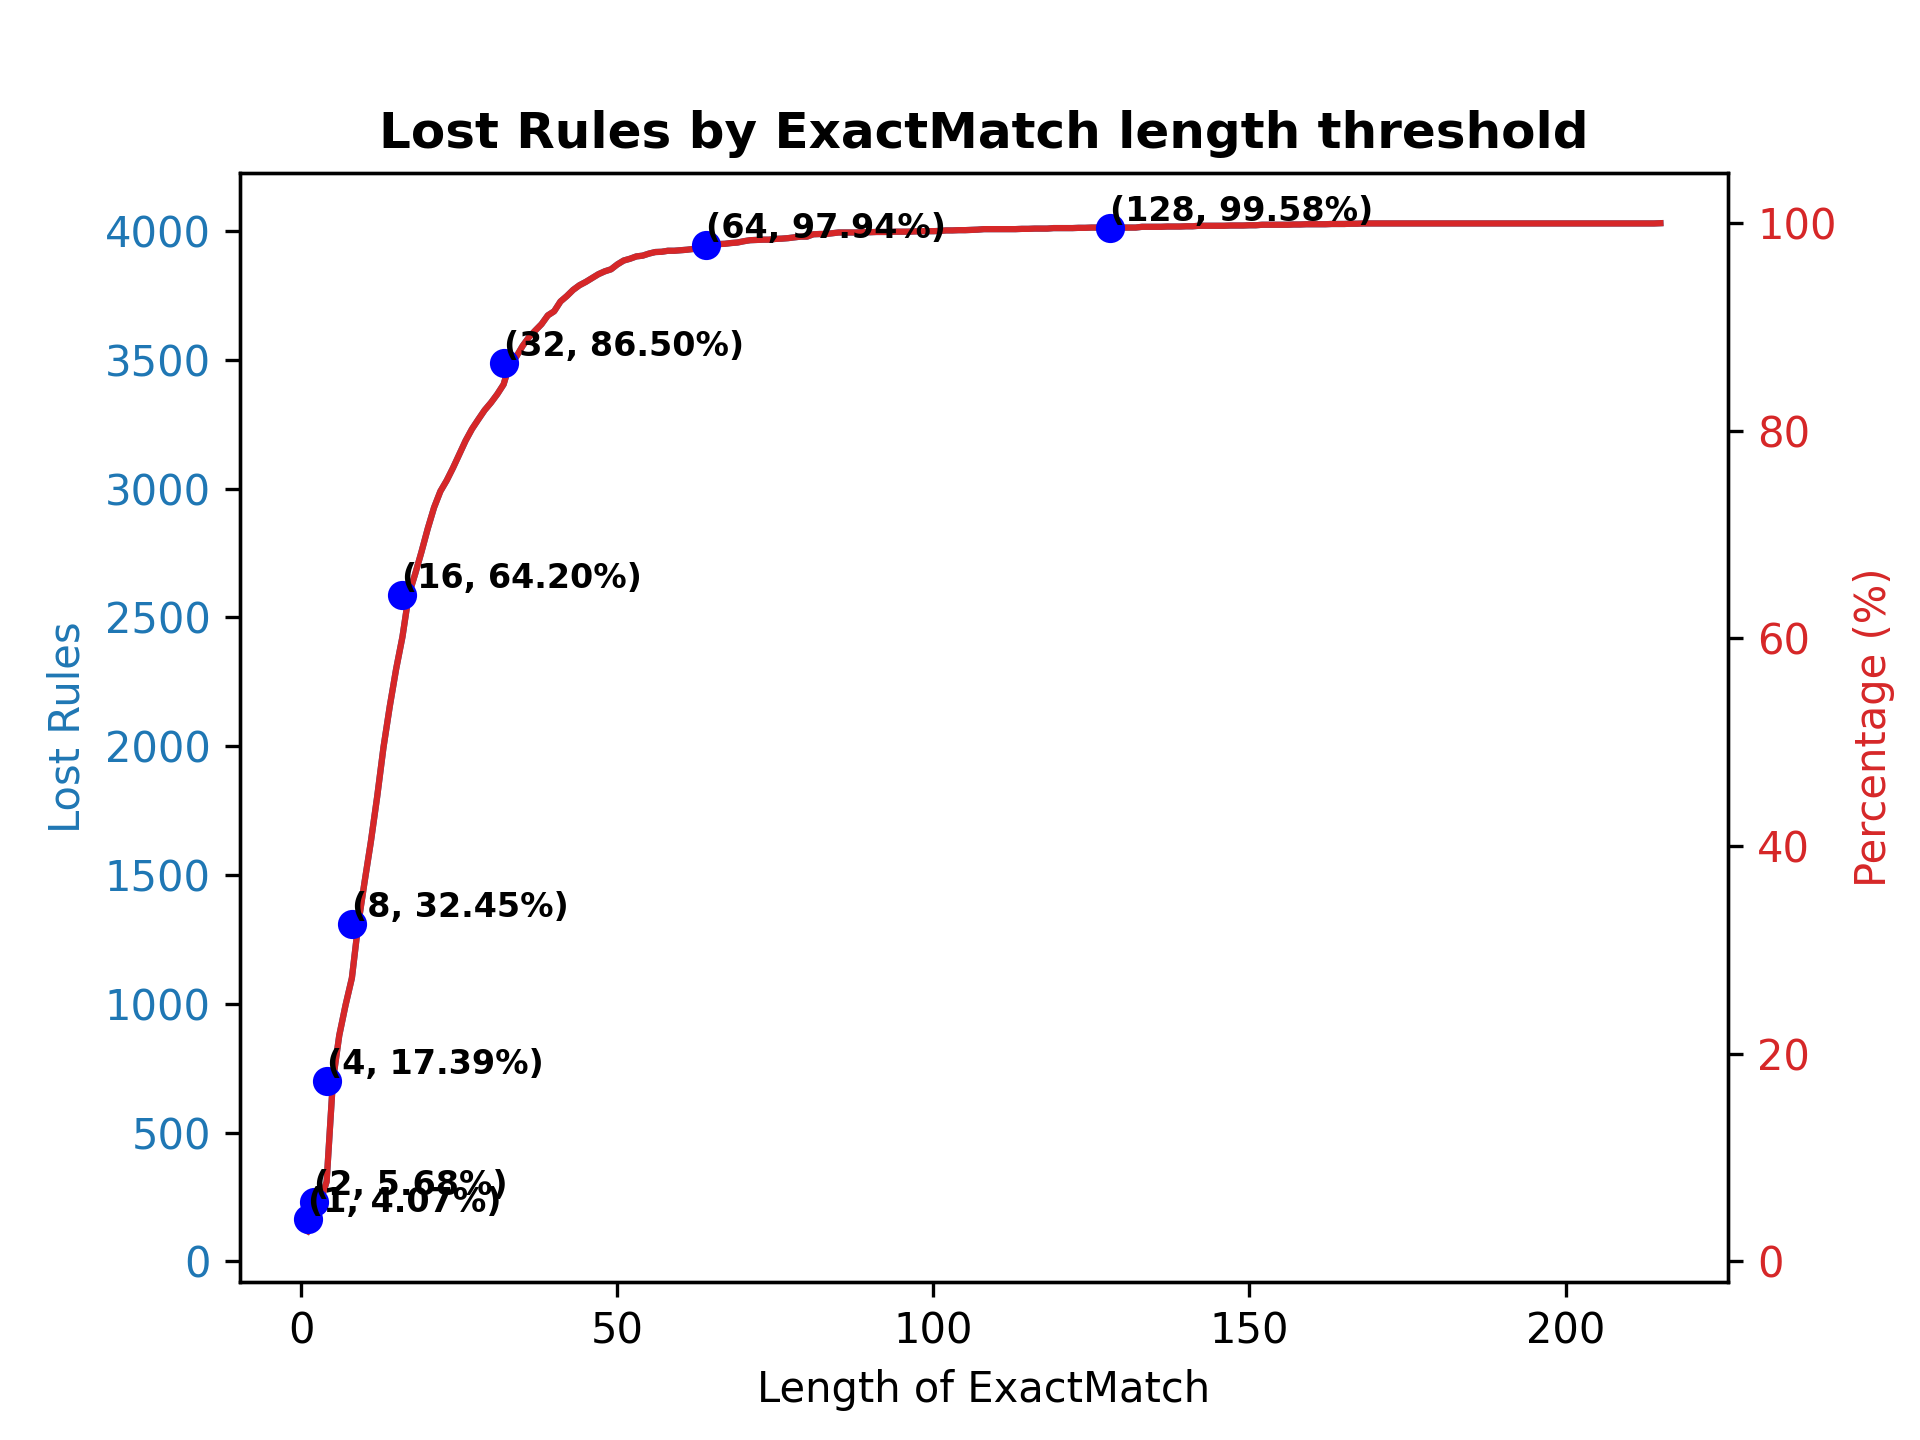
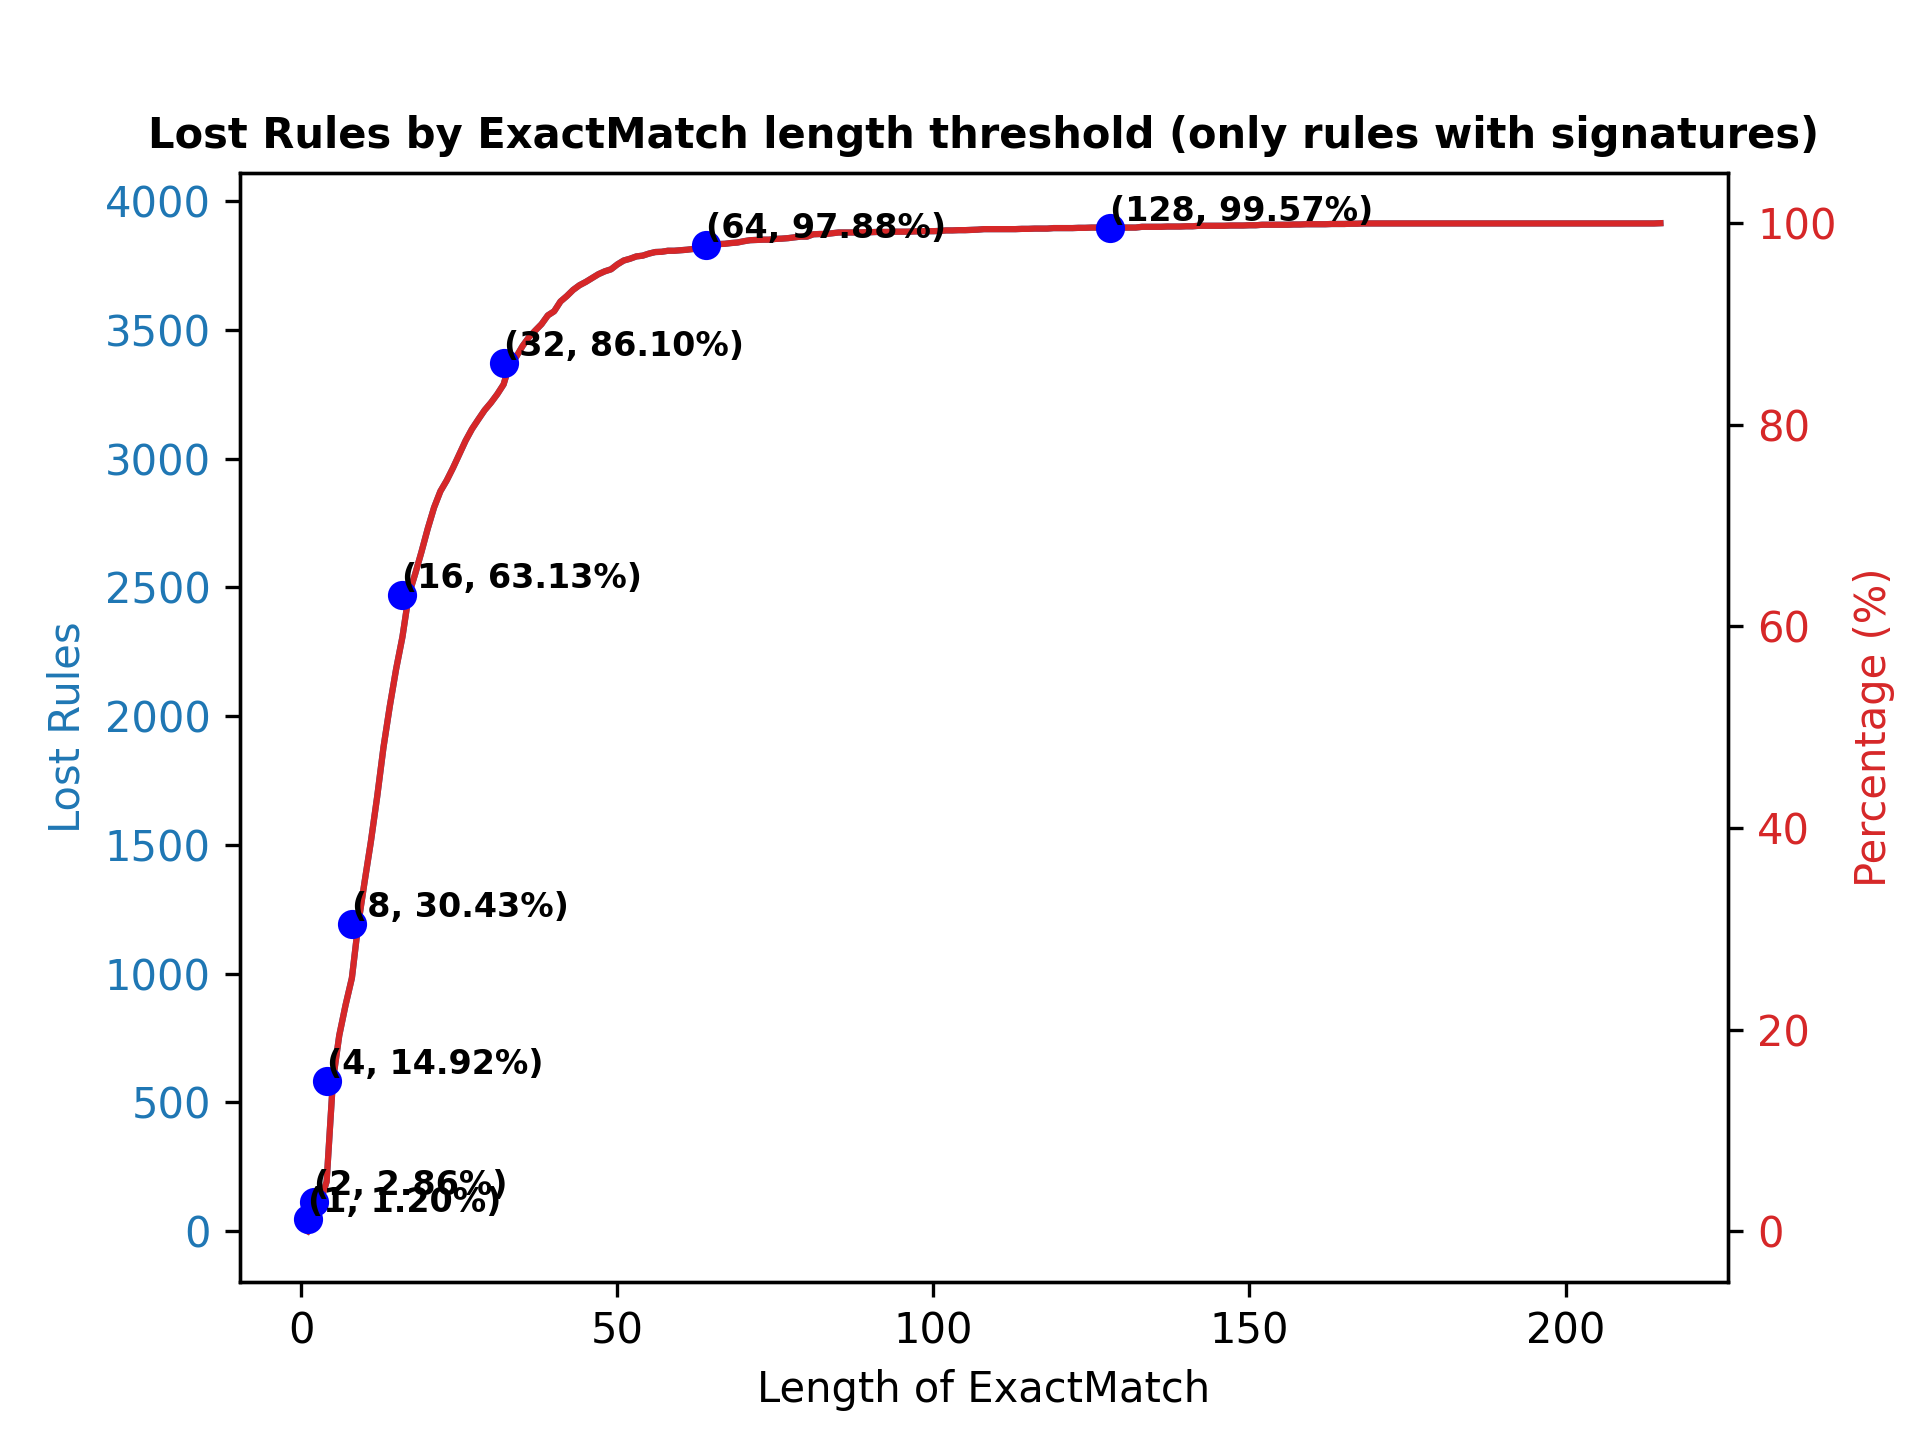
Update plot_lost_rules_by_exactmatch_length function to fix calculation bug

diff --git a/PartA_Data_Process/ResultsAnalysis.py b/PartA_Data_Process/ResultsAnalysis.py
@@ -27,7 +27,7 @@ def plot_lost_rules_by_exactmatch_length(data_by_exactmatch, abs_save_path):
     """
         A function used to plot the cumulated lost rules by the exactmatch length.
     """
-    lost_rules_by_length = [1 for i in range(1, total_rules + 1)]
+    lost_rules_by_length = [0 for i in range(0, total_rules + 1)]
 
     for line in data_by_exactmatch:
         for rule in line["rules"]:
@@ -38,6 +38,7 @@ def plot_lost_rules_by_exactmatch_length(data_by_exactmatch, abs_save_path):
     length_counts = [lost_rules_by_length.count(i) for i in range(1, max(lost_rules_by_length) + 1)]
     cumulative_counts = np.cumsum(length_counts)
     total_count = cumulative_counts[-1]
+    print(total_count)
     cumulative_percentages = (cumulative_counts / total_count) * 100
     fig, ax1 = plt.subplots()
 
@@ -60,7 +61,7 @@ def plot_lost_rules_by_exactmatch_length(data_by_exactmatch, abs_save_path):
 
     ax2.tick_params(axis='y', labelcolor=color)
     
-    plt.title('Lost Rules by ExactMatch length threshold', fontweight='bold')
+    plt.title('Lost Rules by ExactMatch length threshold (only rules with signatures)', fontweight='bold', fontsize=10)
     plt.savefig(os.path.join(abs_save_path, 'cumulative_plot_lost_rules.png'), dpi=300)
     plt.close()  
 
